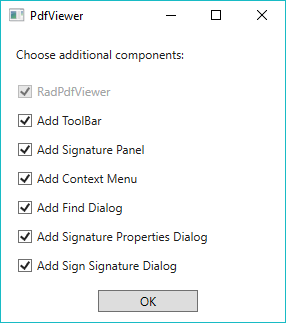
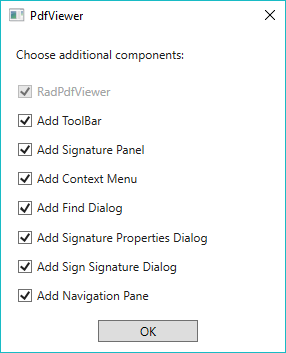
PdfViewer: Added information about RadPdfViewerNavigationPane in the Default UI topic

diff --git a/controls/radpdfviewer/default-ui.md b/controls/radpdfviewer/default-ui.md
@@ -10,9 +10,9 @@ position: 2
 
 # Default UI
 
-RadPdfViewer comes with pre-defined UI that is automatically wired with all of the commands provided by the control. **RadPdfViewerToolbar** compliments **RadPdfViewer**, with convenient toolbar exposing the variety of features. With single line of XAML you get all the UI expected from a standard PDF viewing application, including page navigation, zoom and page control, open/save/print buttons. When updating from version to version, you'll automatically get UI for all the new commands we expose.
+RadPdfViewer comes with pre-defined UI that is automatically wired with all of the commands provided by the control. **RadPdfViewerToolbar** compliments **RadPdfViewer**, with convenient toolbar exposing the variety of features. With single line of XAML you get all the UI expected from a standard PDF viewing application, including page navigation, zoom and page control, open/save/print buttons. When updating from version to version, you'll automatically get UI for all the new commands we expose. **RadPdfViewerNavigationPane** takes care of visualizing different navigation panels, including the [Bookmarks]({%slug radpdfviewer-features-bookmarks%}) of the PDF document.
 
-#### Figure 1: RadPdfViewer with default UI and context menu
+#### Figure 1: RadPdfViewer with default UI, RadPdfViewerNavigationPane and context menu
  
 ![](images/RadPdfViewer_defaultUI_00.png)
 
@@ -34,6 +34,8 @@ After dragging the RadPdfViewer control from the toolbox to the designer of Visu
 
 * **Add Sign Signature Dialog**: Determines whether the [Sign Signature Dialog]({%slug radpdfviewer-features-digital-signature%}#signing) of RadPdfViewer should be added to the UI.
 
+* **Add Navigation Pane**: Determines whether the RadPdfViewerNavigationPane should be added to the UI to show  the bookmarks of a PDF document. 
+
 #### Figure 2: Choose the components you would like to use
  
 ![](images/RadPdfViewer_defaultUI_01.png)
@@ -46,17 +48,20 @@ After dragging the RadPdfViewer control from the toolbox to the designer of Visu
 
 	<Grid>
 	    <Grid.RowDefinitions>
-		<RowDefinition Height="Auto"/>
-		<RowDefinition Height="Auto"/>
-		<RowDefinition/>
+	        <RowDefinition Height="Auto"/>
+	        <RowDefinition Height="Auto"/>
+	        <RowDefinition/>
 	    </Grid.RowDefinitions>
 	    <telerik:RadPdfViewerToolBar RadPdfViewer="{Binding ElementName=pdfViewer, Mode=OneTime}" SignaturePanel="{Binding ElementName=signaturePanel, Mode=OneTime}"/>
-	    <fixedViewersUI:SignaturePanel x:Name="signaturePanel" PdfViewer="{Binding ElementName=pdfViewer, Mode=OneWay}" Grid.Row="1"/>
-	    <telerik:RadPdfViewer x:Name="pdfViewer" DataContext="{Binding CommandDescriptors, ElementName=pdfViewer}" 
-				    fixedViewersUI:RadPdfViewerAttachedComponents.RegisterSignSignatureDialog="True" 
-				    fixedViewersUI:RadPdfViewerAttachedComponents.RegisterFindDialog="True" Grid.Row="2" 
-				    fixedViewersUI:RadPdfViewerAttachedComponents.RegisterSignaturePropertiesDialog="True" 
-				    fixedViewersUI:RadPdfViewerAttachedComponents.RegisterContextMenu="True"/>
+	    <telerik:SignaturePanel x:Name="signaturePanel" PdfViewer="{Binding ElementName=pdfViewer, Mode=OneWay}" Grid.Row="1"/>
+	    <Grid Grid.Row="2">
+	        <Grid.ColumnDefinitions>
+	            <ColumnDefinition Width="Auto"/>
+	            <ColumnDefinition Width="*"/>
+	        </Grid.ColumnDefinitions>
+	        <telerik:RadPdfViewerNavigationPane RadPdfViewer="{Binding ElementName=pdfViewer, Mode=OneTime}"/>
+	        <telerik:RadPdfViewer x:Name="pdfViewer" Grid.Column="1" DataContext="{Binding CommandDescriptors, ElementName=pdfViewer}" telerik:RadPdfViewerAttachedComponents.RegisterSignSignatureDialog="True" telerik:RadPdfViewerAttachedComponents.RegisterFindDialog="True" telerik:RadPdfViewerAttachedComponents.RegisterSignaturePropertiesDialog="True" telerik:RadPdfViewerAttachedComponents.RegisterContextMenu="True"/>
+	    </Grid>
 	</Grid>
 {{endregion}}  
  
@@ -100,3 +105,10 @@ When you need to make a more complicated change to the toolbar besides adding an
 ### Customizing the Template of the Default Context Menu
 
 Extracting the template of the default context menu can be done using a pretty similar approach to the one described for RadPdfViewerToolBar. Just right-click on RadPdfViewer in the designer of Visual Studio and choose **Replace Default Context Menu with Editable XAML**.
+
+## See Also
+
+* [Getting Started with RadPdfViewer]({%slug radpdfviewer-getting-started%})
+* [Showing a File]({%slug radpdfviewer-showing-a-file%})
+* [Bookmarks]({%slug radpdfviewer-features-bookmarks%})
+* [Interactive Forms]({%slug radpdfviewer-features-interactive-forms%})
